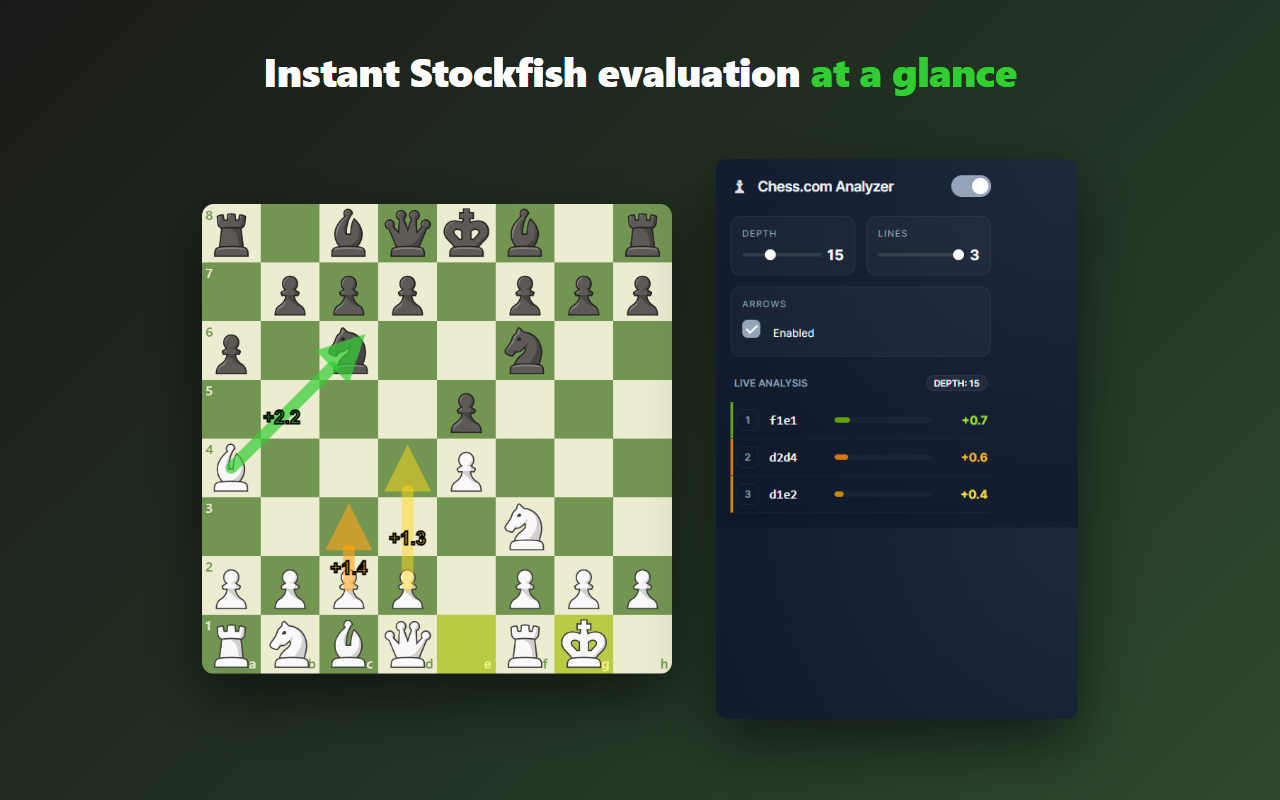
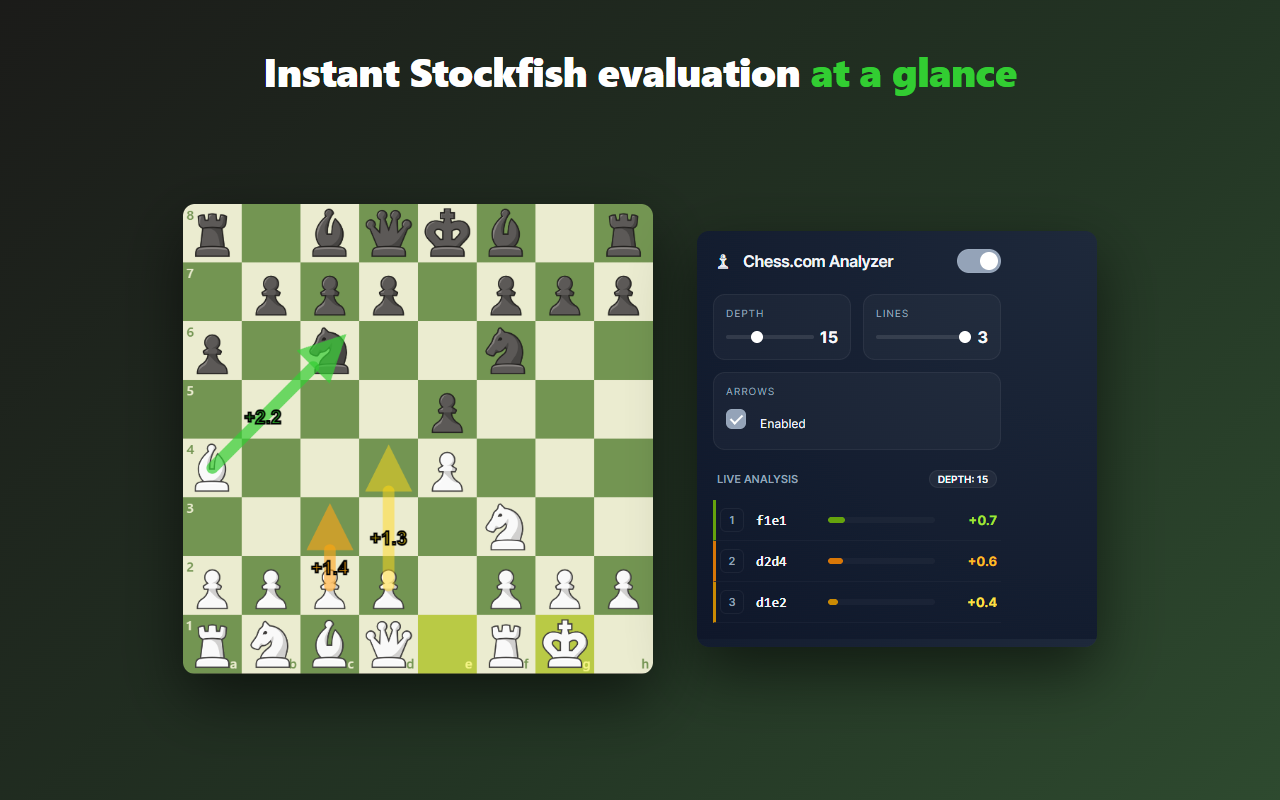
fix(store): visual QA adjustments

diff --git a/store-assets/src/build.js b/store-assets/src/build.js
@@ -20,6 +20,17 @@ const crop = (uri, w) => {
       margin-left:${-Math.round(box.x*s)}px;margin-top:${-Math.round(box.y*s)}px;display:block"></div>`;
 };
 
+// Popup crop: the 400×620 capture has a dead dark lower third below the
+// content. Show only the top `PC` px, scaled to `w` px wide (cap at native
+// 400 to stay sharp), wrapped so the wrapper supplies the rounded bottom.
+const POPUP_W = 400, POPUP_CONTENT = 416;
+const popupCrop = (w) => {
+  const s = w / POPUP_W;
+  return `<div style="width:${w}px;height:${Math.round(POPUP_CONTENT*s)}px;overflow:hidden;
+    border-radius:12px;box-shadow:0 24px 60px rgba(0,0,0,.55);flex:none">
+    <img src="${popup}" style="width:${w}px;display:block"></div>`;
+};
+
 const page = (w,h,inner) => `<!doctype html><meta charset="utf-8"><style>
   *{margin:0;padding:0;box-sizing:border-box}
   html,body{width:${w}px;height:${h}px;overflow:hidden}
@@ -43,10 +54,9 @@ const out = {
   's1.html': shot(`See the <span class="accent">top 3 moves</span> — live on your board`,
                   crop(boardStart, 560), 'Best, second and third line, ranked by color'),
   's2.html': shot(`Instant Stockfish evaluation <span class="accent">at a glance</span>`,
-    crop(boardRuy, 470) +
-    `<img src="${popup}" style="height:560px;border-radius:12px;box-shadow:0 24px 60px rgba(0,0,0,.55)">`),
+    crop(boardRuy, 470) + popupCrop(400)),
   's3.html': shot(`Tune engine <span class="accent">depth</span> and number of <span class="accent">lines</span>`,
-    `<img src="${popup}" style="height:580px;border-radius:12px;box-shadow:0 24px 60px rgba(0,0,0,.55)">`,
+    popupCrop(400),
     'Depth 10–25 · 1–3 lines · arrows on/off'),
   's4.html': shot(`Works on <span class="accent">live games</span> and analysis`,
                   crop(boardRuy, 560), 'Arrows follow every move automatically'),
